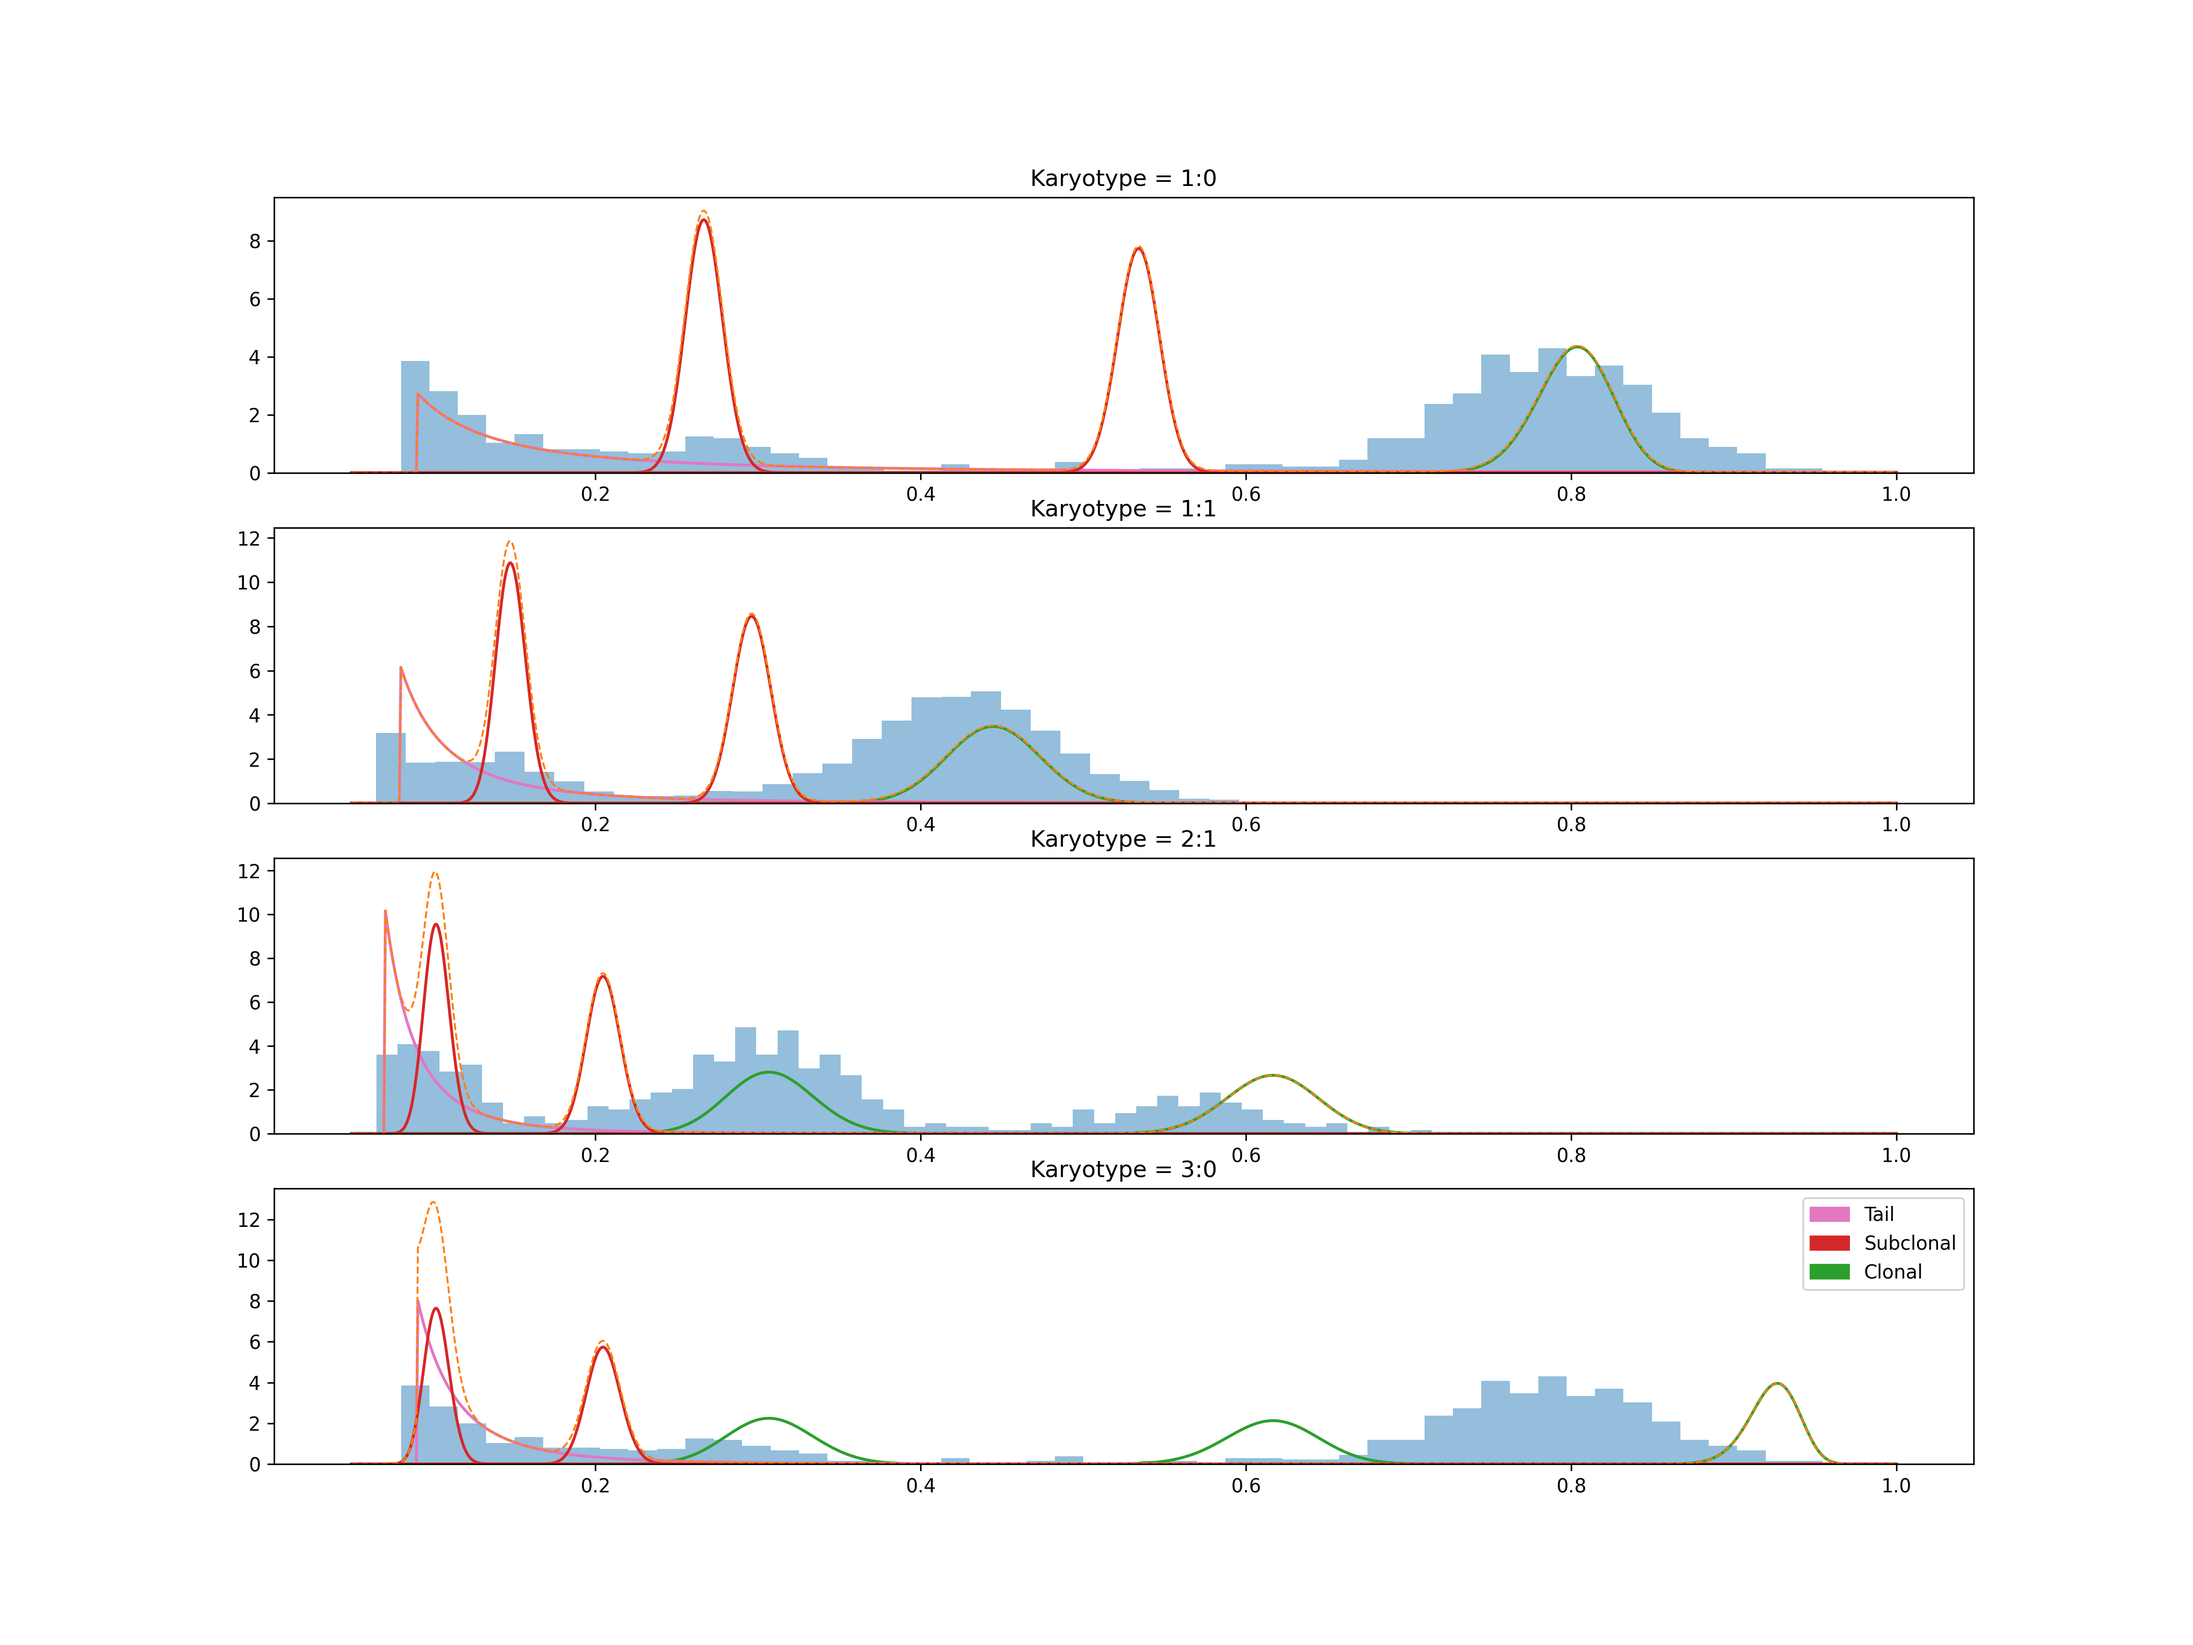
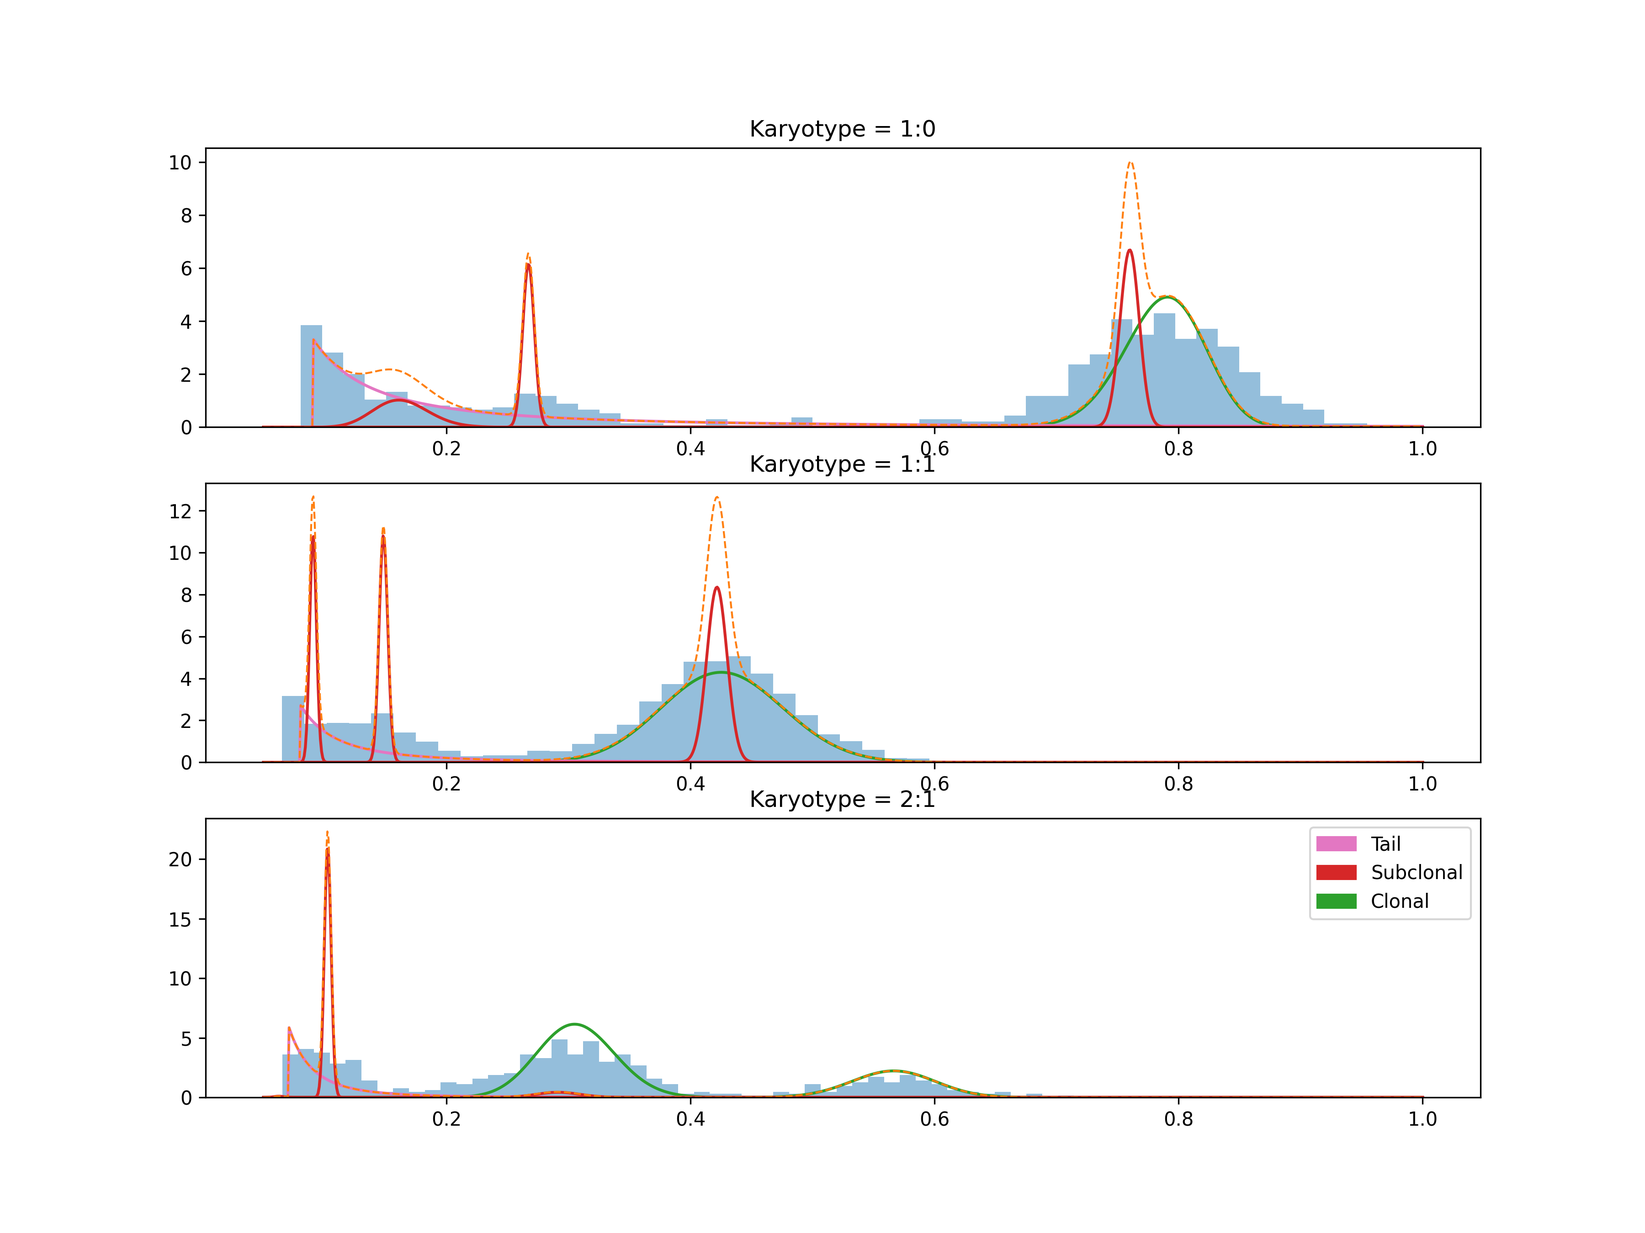
bugfix

diff --git a/mobster/guide_mobster.py b/mobster/guide_mobster.py
@@ -13,7 +13,7 @@ from mobster.likelihood_calculation import *
 
 def guide(data, K=1, tail=1, truncated_pareto = True,subclonal_prior = "Moyal",multi_tail = False,  purity=0.96, clonal_beta_var=1., number_of_trials_clonal_mean=100.,
           number_of_trials_subclonal=300., number_of_trials_k=300., prior_lims_clonal=[1., 10000.],alpha_precision_concentration = 100, alpha_precision_rate=0.1,
-          prior_lims_k=[1., 10000.], epsilon_ccf = 0.002, max_min_subclonal_ccf = [0.05,0.95], k_means_init = True, min_vaf_scale_tail = 0.01):
+          prior_lims_k=[1., 10000.], epsilon_ccf = 0.01, max_min_subclonal_ccf = [0.05,0.95], k_means_init = True, min_vaf_scale_tail = 0.01):
 
 
     karyos = list(data.keys())
@@ -32,7 +32,7 @@ def guide(data, K=1, tail=1, truncated_pareto = True,subclonal_prior = "Moyal",m
         counts_clones[i] = counts_clones.get(i, 0) + 1
 
     
-    if truncated_pareto and K > 0:
+    if truncated_pareto and K > 0 and multi_tail:
         multitail_weights = pyro.param("multitail_weights", 1 / (K + 1) * torch.ones([len(karyos), K + 1]),  constraint=constraints.simplex)
 
     a_prior = pyro.param("tail_mean", torch.ones(1), constraint=constraints.positive)
@@ -114,11 +114,11 @@ def guide(data, K=1, tail=1, truncated_pareto = True,subclonal_prior = "Moyal",m
                                                    ((subclonal_ccf + epsilon_ccf)  * purity)/ (2 * (1-purity) + theo_allele_list[kr] * purity)))
 
                 if subclonal_prior == "Moyal":
-                    scale_subclonal_param = pyro.param("scale_subclonal_{}".format(kr), torch.ones(K) * -5,
+                    scale_subclonal_param = pyro.param("scale_subclonal_{}".format(kr), torch.tensor(100.),
                                                        constraint=constraints.real)
                     scale_subclonal = pyro.sample("scale_moyal_{}".format(kr), dist.Delta(scale_subclonal_param))
                     pyro.sample("subclones_prior_{}".format(kr),
-                                                BoundedMoyal(k_means, torch.exp(scale_subclonal), torch.min(torch.amin(VAF), torch.tensor(min_vaf_scale_tail)) - 1e-5,
+                                                BoundedMoyal(k_means - 1./scale_subclonal * (EULER_MASCHERONI + torch.log(torch.tensor(2))) , 1./scale_subclonal, torch.min(torch.amin(VAF), torch.tensor(min_vaf_scale_tail)) - 1e-5,
                                                              torch.amin(theo_peaks)).to_event(1))
                     ba = BoundedMoyal(k_means, torch.exp(scale_subclonal), torch.min(torch.amin(VAF), torch.tensor(min_vaf_scale_tail)) - 1e-5,
                                                              torch.amin(theo_peaks))

diff --git a/mobster/model_mobster.py b/mobster/model_mobster.py
@@ -9,7 +9,7 @@ import mobster.utils_mobster as mut
 def model(data, K=1, tail=1, truncated_pareto=True, subclonal_prior="Moyal", multi_tail=False, purity=0.96,
           number_of_trials_clonal_mean=500., number_of_trials_subclonal=300, number_of_trials_k=300.,
           prior_lims_clonal=[0.1, 100000.], prior_lims_k=[0.1, 100000.], alpha_precision_concentration=100,
-          alpha_precision_rate=0.1, epsilon_ccf=0.002, max_min_subclonal_ccf = [0.05,0.95], k_means_init = True, min_vaf_scale_tail = 0.1):
+          alpha_precision_rate=0.1, epsilon_ccf=0.01, max_min_subclonal_ccf = [0.05,0.95], k_means_init = True, min_vaf_scale_tail = 0.1):
     """Hierarchical bayesian model for Subclonal Deconvolution
 
     This model deconvolves the signal from the Variant Allelic Frequency (VAF) spectrum using a sound
@@ -147,9 +147,9 @@ def model(data, K=1, tail=1, truncated_pareto=True, subclonal_prior="Moyal", mul
 
 
                 if subclonal_prior == "Moyal":
-                    scale_subclonal = pyro.sample("scale_moyal_{}".format(kr), dist.Normal(0 * torch.ones(K), 10))
+                    scale_subclonal = pyro.sample("scale_moyal_{}".format(kr), dist.Gamma(10. * torch.ones(K), .1))
                     subclone_mean = pyro.sample("subclones_prior_{}".format(kr),
-                                                BoundedMoyal(k_means, torch.exp(scale_subclonal), torch.min(VAF) - 1e-5,
+                                                BoundedMoyal(k_means - 1./scale_subclonal * (EULER_MASCHERONI + torch.log(torch.tensor(2))) , 1/scale_subclonal, torch.min(VAF) - 1e-5,
                                                              torch.min(theo_peaks)).to_event(1))
 
                     #subclone_mean = pyro.sample("subclones_prior_{}".format(kr),Moyal(k_means, scale_subclonal))
@@ -162,7 +162,7 @@ def model(data, K=1, tail=1, truncated_pareto=True, subclonal_prior="Moyal", mul
 
         if (tail > 0):
             # Tail vs no tail probability, Dirichlet priors can sometimes create problems, but no better solution
-            tail_probs = pyro.sample('weights_tail_{}'.format(kr), dist.Dirichlet(torch.tensor([1, 1 + K])))
+            tail_probs = pyro.sample('weights_tail_{}'.format(kr), dist.Dirichlet(torch.tensor([1., 1. + K])))
 
             alpha_precision = pyro.sample('alpha_precision_{}'.format(kr),
                                           dist.Gamma(concentration=alpha_precision_concentration,

diff --git a/mobster/utils_mobster.py b/mobster/utils_mobster.py
@@ -131,14 +131,14 @@ def format_parameters_for_export_aux(data, params,k, i, theo_clones, counts_clon
         res["ccf_subclones"] = params["ccf_priors"].detach().numpy()
         res["loc_subclones"] = ccfs_torch.detach().numpy()
         if subclonal_prior == "Moyal":
-            res["scale_subclonal"] = torch.exp(params["scale_subclonal_{}".format(i)]).detach().numpy()
+            res["n"] = (1./params["scale_subclonal_{}".format(i)]).reshape([K]).detach().numpy()
         else:
             res["n_trials_subclonal"] = params["n_trials_subclonal_{}".format(i)].detach().numpy()
 
     if tail == 1:
         res["tail_shape"] = params['tail_mean'].detach().numpy()
         res["tail_scale"] = scale_pareto(VAF).detach().numpy()
-        res["tail_noise"] =  1/params['alpha_noise'].detach().numpy()
+        res["tail_noise"] =  (1/params['alpha_noise']).detach().numpy()
         res["tail_higher"] = b_max.detach().numpy()
         if K > 0 and truncated_pareto and multi_tails:
             res["multi_tail_weights"] = params['multitail_weights'][i].detach().numpy()

diff --git a/mobster/likelihood_calculation.py b/mobster/likelihood_calculation.py
@@ -185,7 +185,7 @@ def compute_likelihood_from_params_aux(data, tail, truncated_pareto, params, i, 
         if subclonal_prior == "Moyal":
             scale = params["scale_subclonal_{}".format(i)]
             subclonal_lk = calculate_lk_moyal_params(NV, DP, torch.min(VAF) - 1e-5,
-                                                     ccfs, torch.exp(scale), b_max,
+                                                     ccfs, 1/scale, b_max,
                                                      K)
         else:
             n_trials = params["n_trials_subclonal_{}".format(i)]
